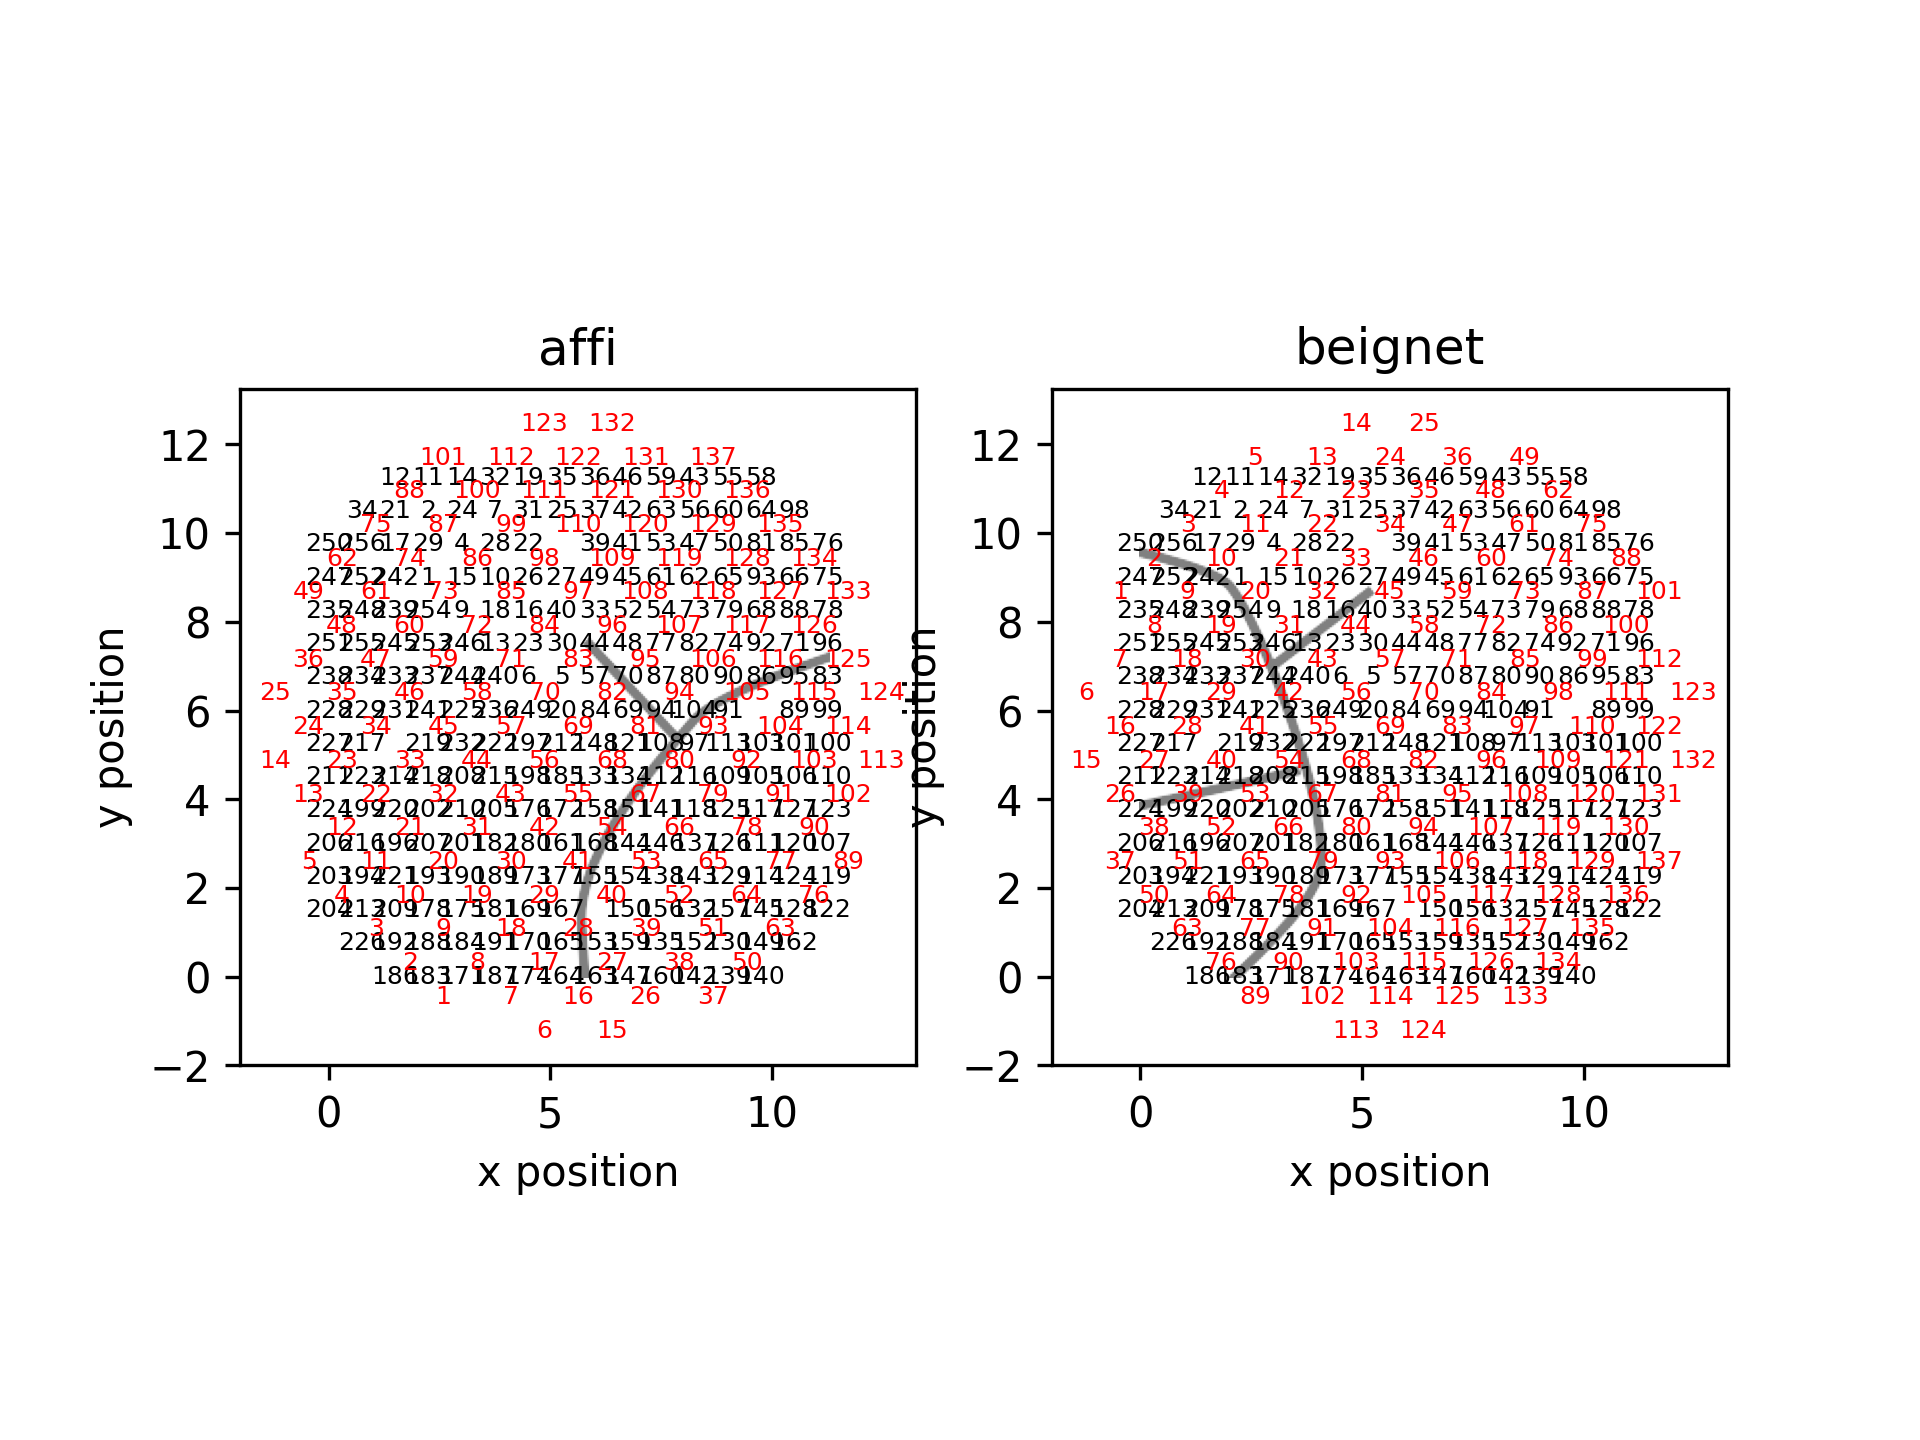
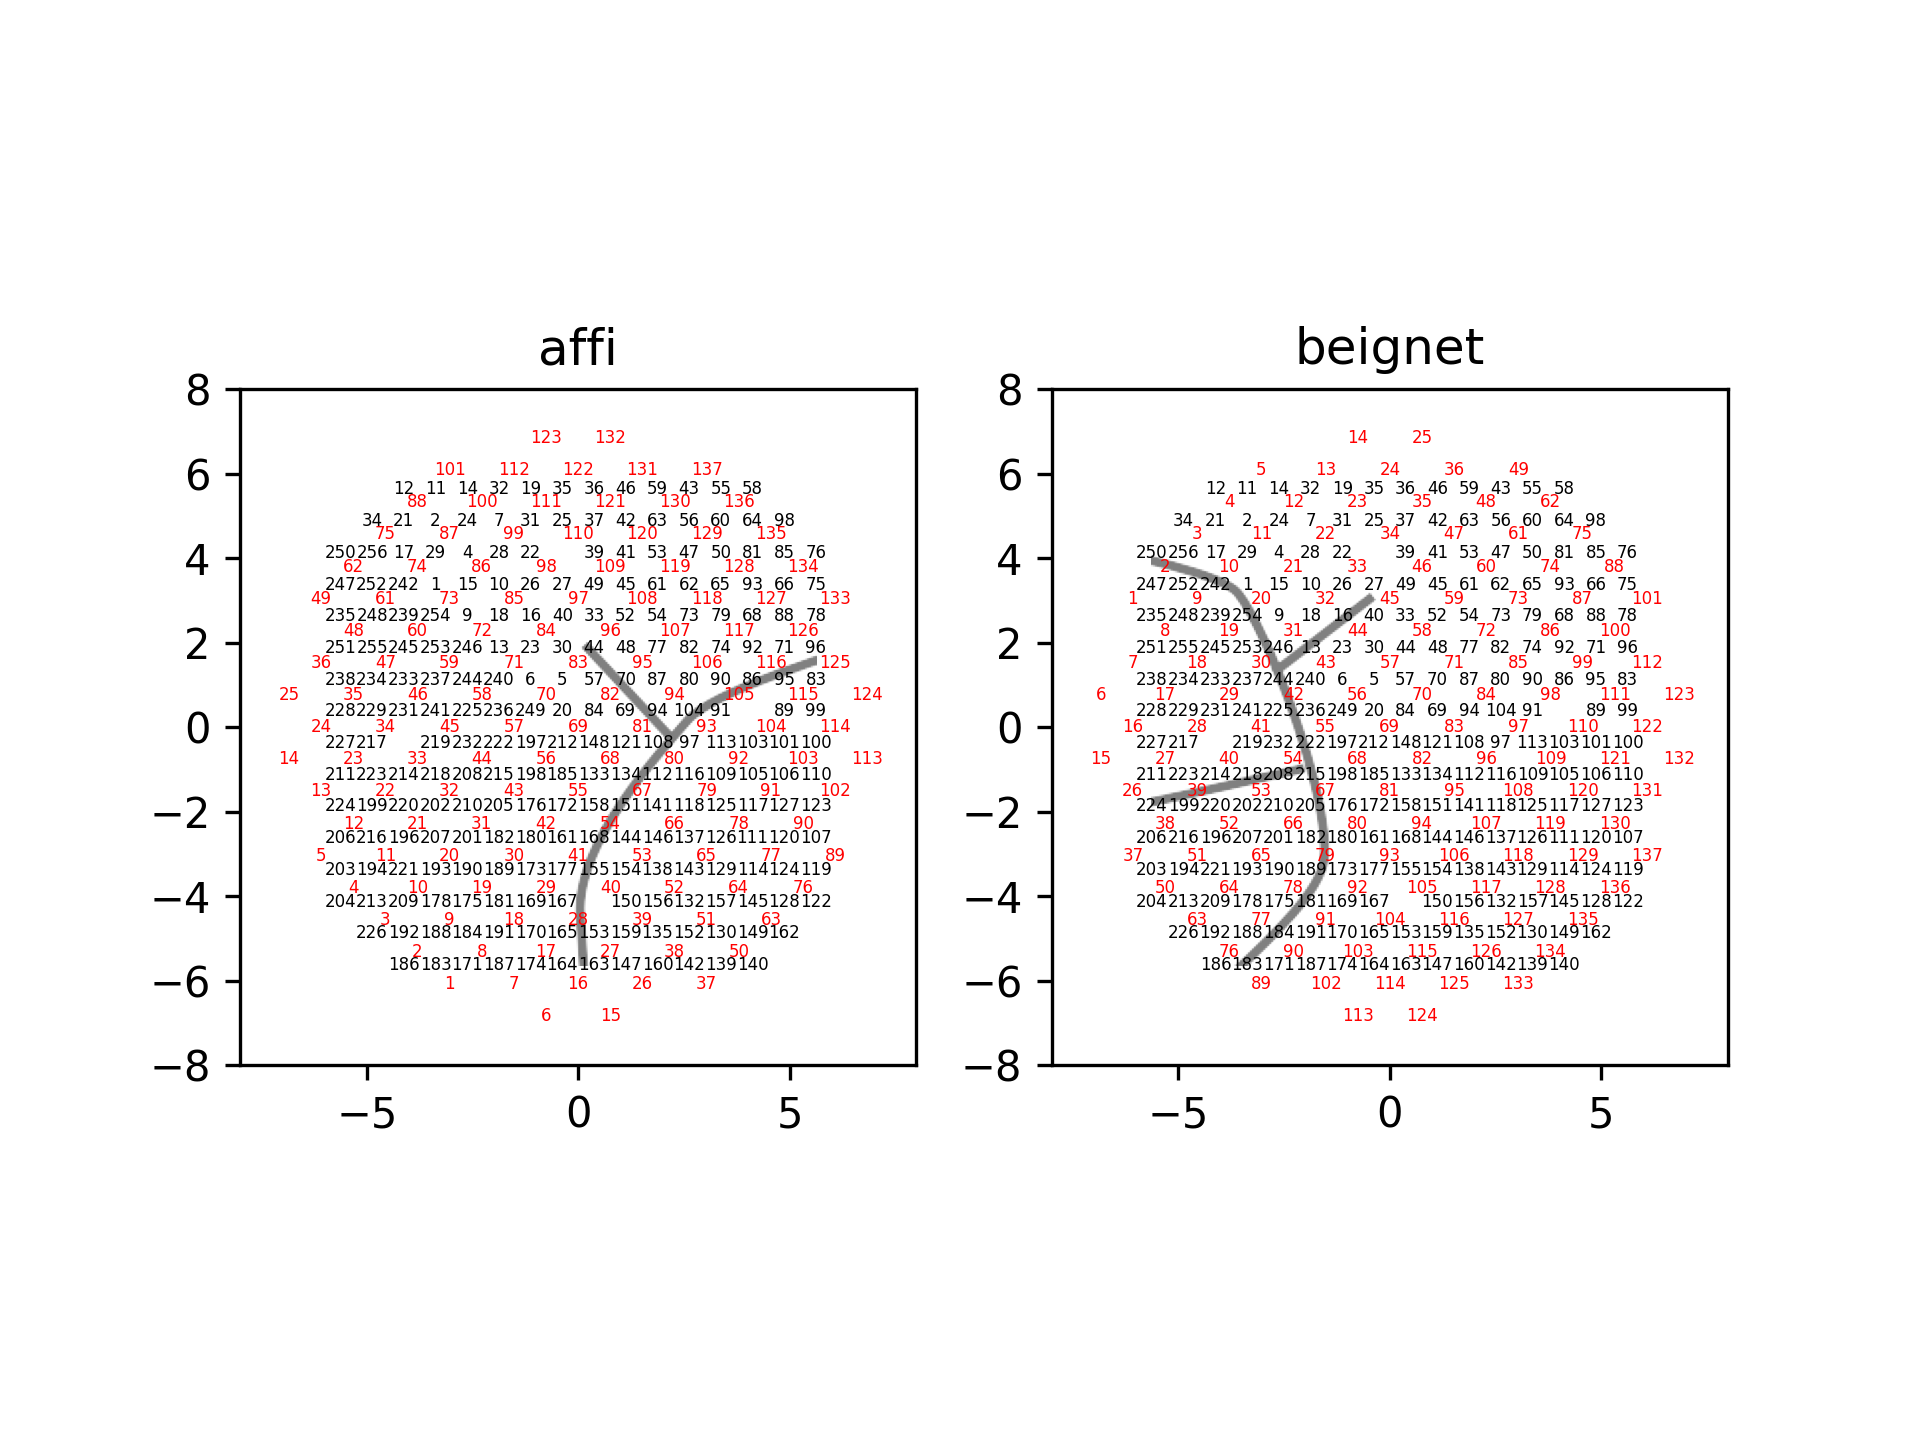
update based on discussion with leo

diff --git a/tests/test_data.py b/tests/test_data.py
@@ -1311,63 +1311,88 @@ class SignalPathTests(unittest.TestCase):
         self.assertEqual(acq_ch_position.shape[1], 2)
 
     def test_align_recording_drives(self):
-        # Create plot for documentation with affi and biegnet
+        # Create plots for documentation with affi and biegnet
         fig, ax = plt.subplots(1,2)
         subjects = ['affi', 'beignet']
         neuropixel_drive='NP_Insert137'
         drive2 = 'ECoG244'
+        drive2_ch_pos, _ , _ = load_chmap(drive_type=drive2)
+        drive2_offset = -(np.max(drive2_ch_pos, axis=0) + np.min(drive2_ch_pos, axis=0))/2 
         for iax, subject in enumerate(subjects):
-            aligned_np_drive_coordinates, recording_sites = align_recoring_drives(neuropixel_drive, drive2, subject)
-            visualization.plot_ECoG244_data_map(np.zeros(256,), cmap='Greys', ax=ax[iax])
-            visualization.base.annotate_spatial_map_channels(drive_type=drive2, color='k', ax=ax[iax])
-            [ax[iax].annotate(str(recording_sites[ipt]), (aligned_np_drive_coordinates[ipt,0], aligned_np_drive_coordinates[ipt,1]), ha='center', va='center', color='r',fontsize=6) for ipt in range(len(recording_sites))]
-            visualization.base.overlay_sulci_on_spatial_map(subject, 'LM1', drive2, theta=0, ax=ax[iax])
-            ax[iax].set(xlim=(-2,13.25), ylim=(-2,13.25), title=f'{subject}')
+            
+            aligned_np_drive_coordinates, drive2_coordinates, recording_sites, acq_elecs = align_recoring_drives(neuropixel_drive, drive2, subject, drive2_offset=drive2_offset)
+            [ax[iax].annotate(str(acq_elecs[ipt]), (drive2_coordinates[ipt,0], drive2_coordinates[ipt,1]), ha='center', va='center', color='k',fontsize=4) for ipt in range(len(acq_elecs))]
+            [ax[iax].annotate(str(recording_sites[ipt]), (aligned_np_drive_coordinates[ipt,0], aligned_np_drive_coordinates[ipt,1]), ha='center', va='center', color='r',fontsize=4) for ipt in range(len(recording_sites))]
+            visualization.base.overlay_sulci_on_spatial_map(subject, 'LM1', drive2, theta=0, offset=-drive2_offset, ax=ax[iax])
+            ax[iax].set(xlim=(-8,8), ylim=(-8,8), title=f'{subject}')
+        visualization.savefig(docs_dir, f'{neuropixel_drive}_{drive2}_alignment.png')
+
+        fig, ax = plt.subplots(1,2)
+        neuropixel_drive='NP_Insert72'
+        for iax, subject in enumerate(subjects):
+            
+            aligned_np_drive_coordinates, drive2_coordinates, recording_sites, acq_elecs = align_recoring_drives(neuropixel_drive, drive2, subject, drive2_offset=drive2_offset)
+            [ax[iax].annotate(str(acq_elecs[ipt]), (drive2_coordinates[ipt,0], drive2_coordinates[ipt,1]), ha='center', va='center', color='k',fontsize=4) for ipt in range(len(acq_elecs))]
+            [ax[iax].annotate(str(recording_sites[ipt]), (aligned_np_drive_coordinates[ipt,0], aligned_np_drive_coordinates[ipt,1]), ha='center', va='center', color='r',fontsize=4) for ipt in range(len(recording_sites))]
+            visualization.base.overlay_sulci_on_spatial_map(subject, 'LM1', drive2, theta=0, offset=-drive2_offset, ax=ax[iax])
+            ax[iax].set(xlim=(-8,8), ylim=(-8,8), title=f'{subject}')
         visualization.savefig(docs_dir, f'{neuropixel_drive}_{drive2}_alignment.png')
 
         # Test the rest of the combinations
         for subject in subjects:
             neuropixel_drive = 'NP_Insert72'
             drive2 = 'ECoG244'
-            acq_ch_position, acq_chs, connected_elecs = load_chmap(drive_type=drive2)
-
-            aligned_np_drive_coordinates, recording_sites = align_recoring_drives(neuropixel_drive, drive2, subject)
+            aligned_np_drive_coordinates, drive2_coordinates ,  recording_sites, acq_elecs = align_recoring_drives(neuropixel_drive, drive2, subject, drive2_offset=drive2_offset)
             fig, ax = plt.subplots(1,1)
-            visualization.plot_ECoG244_data_map(np.zeros(256,), cmap='Greys', ax=ax)
-            visualization.base.annotate_spatial_map_channels(drive_type=drive2, color='k', ax=ax)
-            [ax.annotate(str(recording_sites[ipt]), (aligned_np_drive_coordinates[ipt,0], aligned_np_drive_coordinates[ipt,1]), ha='center', va='center', color='r') for ipt in range(len(recording_sites))]
+            [ax.annotate(str(acq_elecs[ipt]), (drive2_coordinates[ipt,0], drive2_coordinates[ipt,1]), ha='center', va='center', color='k',fontsize=4) for ipt in range(len(acq_elecs))]
+            [ax.annotate(str(recording_sites[ipt]), (aligned_np_drive_coordinates[ipt,0], aligned_np_drive_coordinates[ipt,1]), ha='center', va='center', color='r', fontsize=4) for ipt in range(len(recording_sites))]
+            visualization.base.overlay_sulci_on_spatial_map(subject, 'LM1', drive2, theta=0, offset=-drive2_offset)
+            ax.set(xlim=(-8,8), ylim=(-8,8), title=f'{subject}')
             visualization.savefig(write_dir, f'{neuropixel_drive}_{drive2}_alignment_{subject}.png')
 
             neuropixel_drive='NP_Insert137'
-            aligned_np_drive_coordinates, recording_sites = align_recoring_drives(neuropixel_drive, drive2, subject)
+            aligned_np_drive_coordinates, drive2_coordinates , recording_sites, acq_elecs = align_recoring_drives(neuropixel_drive, drive2, subject, drive2_offset=drive2_offset)
             fig, ax = plt.subplots(1,1)
-            visualization.plot_ECoG244_data_map(np.zeros(256,), cmap='Greys', ax=ax)
-            visualization.base.annotate_spatial_map_channels(drive_type=drive2, color='k', ax=ax)
-            [ax.annotate(str(recording_sites[ipt]), (aligned_np_drive_coordinates[ipt,0], aligned_np_drive_coordinates[ipt,1]), ha='center', va='center', color='r') for ipt in range(len(recording_sites))]
-            visualization.base.overlay_sulci_on_spatial_map(subject, 'LM1', drive2, theta=0)
-            ax.set(xlim=(-2,13.25), ylim=(-2,13.25))
+            [ax.annotate(str(acq_elecs[ipt]), (drive2_coordinates[ipt,0], drive2_coordinates[ipt,1]), ha='center', va='center', color='k',fontsize=4) for ipt in range(len(acq_elecs))]
+            [ax.annotate(str(recording_sites[ipt]), (aligned_np_drive_coordinates[ipt,0], aligned_np_drive_coordinates[ipt,1]), ha='center', va='center', color='r', fontsize=4) for ipt in range(len(recording_sites))]
+            visualization.base.overlay_sulci_on_spatial_map(subject, 'LM1', drive2, theta=0, offset=-drive2_offset)
+            ax.set(xlim=(-8,8), ylim=(-8,8), title=f'{subject}')
             visualization.savefig(write_dir, f'{neuropixel_drive}_{drive2}_alignment_{subject}.png')
 
             ## Test with opto drive
             drive2 = 'Opto32'
             neuropixel_drive = 'NP_Insert72'
-            acq_ch_position, acq_chs, connected_elecs = load_chmap(drive_type=drive2)
-            aligned_np_drive_coordinates, recording_sites = align_recoring_drives(neuropixel_drive, drive2, subject)
+            # acq_ch_position, acq_chs, connected_elecs = load_chmap(drive_type=drive2)
+            aligned_np_drive_coordinates, drive2_coordinates , recording_sites, acq_elecs = align_recoring_drives(neuropixel_drive, drive2, subject, drive2_offset=drive2_offset)
             fig, ax = plt.subplots(1,1)
-            visualization.plot_ECoG244_data_map(np.zeros(256,), cmap='Greys', ax=ax)
-            visualization.base.annotate_spatial_map_channels(drive_type=drive2, color='k', ax=ax)
-            [ax.annotate(str(recording_sites[ipt]), (aligned_np_drive_coordinates[ipt,0], aligned_np_drive_coordinates[ipt,1]), ha='center', va='center', color='r') for ipt in range(len(recording_sites))]
+            [ax.annotate(str(acq_elecs[ipt]), (drive2_coordinates[ipt,0], drive2_coordinates[ipt,1]), ha='center', va='center', color='k',fontsize=5) for ipt in range(len(acq_elecs))]
+            [ax.annotate(str(recording_sites[ipt]), (aligned_np_drive_coordinates[ipt,0], aligned_np_drive_coordinates[ipt,1]), ha='center', va='center', color='r', fontsize=5) for ipt in range(len(recording_sites))]
+            ax.set(xlim=(-8,8), ylim=(-8,8), title=f'{subject}')
+            visualization.base.overlay_sulci_on_spatial_map(subject, 'LM1', 'ECoG244', theta=0, offset=-drive2_offset)
+            ax.set_aspect('equal')
             visualization.savefig(write_dir, f'{neuropixel_drive}_{drive2}_alignment_{subject}.png')
 
             neuropixel_drive='NP_Insert137'
-            aligned_np_drive_coordinates, recording_sites = align_recoring_drives(neuropixel_drive, drive2, subject)
+            aligned_np_drive_coordinates, drive2_coordinates , recording_sites, acq_elecs = align_recoring_drives(neuropixel_drive, drive2, subject, drive2_offset=drive2_offset)
             fig, ax = plt.subplots(1,1)
-            visualization.plot_ECoG244_data_map(np.zeros(256,), cmap='Greys', ax=ax)
-            visualization.base.annotate_spatial_map_channels(drive_type=drive2, color='k', ax=ax)
-            [ax.annotate(str(recording_sites[ipt]), (aligned_np_drive_coordinates[ipt,0], aligned_np_drive_coordinates[ipt,1]), ha='center', va='center', color='r') for ipt in range(len(recording_sites))]
-            visualization.base.overlay_sulci_on_spatial_map(subject, 'LM1', 'ECoG244', theta=0)
-            ax.set(xlim=(-2,13.25), ylim=(-2,13.25))
+            [ax.annotate(str(acq_elecs[ipt]), (drive2_coordinates[ipt,0], drive2_coordinates[ipt,1]), ha='center', va='center', color='k',fontsize=5) for ipt in range(len(acq_elecs))]
+            [ax.annotate(str(recording_sites[ipt]), (aligned_np_drive_coordinates[ipt,0], aligned_np_drive_coordinates[ipt,1]), ha='center', va='center', color='r', fontsize=5) for ipt in range(len(recording_sites))]
+            visualization.base.overlay_sulci_on_spatial_map(subject, 'LM1', 'ECoG244', theta=0, offset=-drive2_offset)
+            ax.set_aspect('equal')
+            ax.set(xlim=(-8,8), ylim=(-8,8), title=f'{subject}')
             visualization.savefig(write_dir, f'{neuropixel_drive}_{drive2}_alignment_{subject}.png')
+        
+        # Test that neuropixel offset works
+        subject='affi'
+        neuropixel_drive = 'NP_Insert72'
+        drive2 = 'ECoG244'
+        aligned_np_drive_coordinates, drive2_coordinates ,  recording_sites, acq_elecs = align_recoring_drives(neuropixel_drive, drive2, subject, neuropixel_drive_offset=-drive2_offset)
+        fig, ax = plt.subplots(1,1)
+        [ax.annotate(str(acq_elecs[ipt]), (drive2_coordinates[ipt,0], drive2_coordinates[ipt,1]), ha='center', va='center', color='k',fontsize=4) for ipt in range(len(acq_elecs))]
+        [ax.annotate(str(recording_sites[ipt]), (aligned_np_drive_coordinates[ipt,0], aligned_np_drive_coordinates[ipt,1]), ha='center', va='center', color='r', fontsize=4) for ipt in range(len(recording_sites))]
+        visualization.base.overlay_sulci_on_spatial_map(subject, 'LM1', drive2, theta=0)
+        ax.set(xlim=(-2.5,13), ylim=(-2.5,13), title=f'{subject}')
+        visualization.savefig(write_dir, f'{neuropixel_drive}_{drive2}_alignment_{subject}_npoffset.png')
 
 
 

diff --git a/aopy/data/base.py b/aopy/data/base.py
@@ -839,7 +839,7 @@ def load_chmap(drive_type='ECoG244', acq_ch_subset=None, theta=0, **kwargs):
     return map_acq2pos(signal_path, layout, acq_ch_subset=acq_ch_subset, theta=theta, 
                        rotation_offset=rotation_offset, **kwargs)
 
-def align_recoring_drives(neuropixel_drive, drive2, subject):
+def align_recoring_drives(neuropixel_drive, drive2, subject, neuropixel_drive_offset=(0,0), drive2_offset=(0,0)):
     '''
     This function aligns one drive to another drive type. In the current iteration, this function only supports aligning neuropixels drives ('NP_Insert72'/'NP_Insert137'') 
     to each other or to 'ECoG244'/'Opto32' drives. This function is not currently compatible with selecting subsets of channels. 
@@ -850,6 +850,8 @@ def align_recoring_drives(neuropixel_drive, drive2, subject):
         neuropixel_drive (str): Neuropixel drive to align. Currently supports 'NP_Insert72', and 'NP_Insert137'
         drive2 (str): Other drive to align. Currently supports 'ECoG244', 'Opto32', 'NP_Insert72', and 'NP_Insert137'
         subject (str): Subject recordings were performed on. Currently supports 'Affi' and 'Beignet'
+        neuropixel_drive_offset (tuple, list, or array): Define how much to translate the neuropixel drive with an X and Y coordinate. 
+        drive2_offset (tuple, list, or array): Define how much to translate the second drive with an X and Y coordinate. 
 
     Returns:
         tuple: Tuple Containing:
@@ -871,13 +873,6 @@ def align_recoring_drives(neuropixel_drive, drive2, subject):
     if subject not in subjects:
         raise ValueError('Subject not supported')
 
-    # Load ch map for drives
-    np_drive_ch_pos, recording_sites , _ = load_chmap(drive_type=neuropixel_drive)
-    if drive2 == 'Opto32': 
-        drive2_ch_pos, _ , _ = load_chmap(drive_type='ECoG244') # For opto drive we still want to center the neuropixel insert relative to ECoG
-    else:
-        drive2_ch_pos, _ , _ = load_chmap(drive_type=drive2)
-    
     # If drive2 is not a neuropixel drive, load alignment angle
     config_files = files('aopy').joinpath('config')
     if drive2 not in NP_drive_list:
@@ -888,16 +883,11 @@ def align_recoring_drives(neuropixel_drive, drive2, subject):
     else:    
         angle = 0
 
-    # Align neuropixel drive to drive2 based on trig - neuropixel insert coordinates are centered by default, but adjust if necessary
-    np_offset = (np.max(np_drive_ch_pos, axis=0) + np.min(np_drive_ch_pos, axis=0))/2 # Find center of drive 2
-    aligned_np_drive_coordinates_x = (np.cos(angle)*(np_drive_ch_pos[:,0] - np_offset[0])) - (np.sin(angle)*(np_drive_ch_pos[:,1] - np_offset[1]))
-    aligned_np_drive_coordinates_y = (np.sin(angle)*(np_drive_ch_pos[:,0] - np_offset[0])) + (np.cos(angle)*(np_drive_ch_pos[:,1] - np_offset[1]))
-    aligned_np_drive_coordinates = np.concatenate((aligned_np_drive_coordinates_x[:,None], aligned_np_drive_coordinates_y[:,None]), axis=1)
+    # Load ch map for neuropixel drive and drive 2
+    np_drive_ch_pos, recording_sites , _ = load_chmap(drive_type=neuropixel_drive, theta=-np.rad2deg(angle))    
+    drive2_ch_pos, acq_elecs , _ = load_chmap(drive_type=drive2)
 
-    # Compute offset to align with drive 2
-    drive2_offset = (np.max(drive2_ch_pos, axis=0) + np.min(drive2_ch_pos, axis=0))/2 # Find center of drive 2
-    
-    return (aligned_np_drive_coordinates + drive2_offset), recording_sites
+    return np_drive_ch_pos + neuropixel_drive_offset, drive2_ch_pos + drive2_offset, recording_sites, acq_elecs
 
 
 def parse_str_list(strings, str_include=None, str_avoid=None):

diff --git a/aopy/visualization/base.py b/aopy/visualization/base.py
@@ -2066,7 +2066,7 @@ def plot_circular_hist(data, bins=16, density=False, offset=0, proportional_area
 
     return n, bins, patches
 
-def overlay_image_on_spatial_map(filepath, drive_type, theta=0, color=None, invert=False, ax=None, **kwargs):
+def overlay_image_on_spatial_map(filepath, drive_type, theta=0, offset=(0,0), color=None, invert=False, ax=None, **kwargs):
     '''
     Overlay an image on a spatial map of electrodes. The image is rotated by theta degrees and 
     placed at the same coordinates as electrode positions for the given electrode drive. The image
@@ -2097,8 +2097,8 @@ def overlay_image_on_spatial_map(filepath, drive_type, theta=0, color=None, inve
     
     # Calculate the proper extents
     elec_pos, _, _ = aodata.load_chmap(drive_type, theta=theta)
-    x = elec_pos[:,0]
-    y = elec_pos[:,1]
+    x = elec_pos[:,0] - offset[0]
+    y = elec_pos[:,1] - offset[1]
     extent = [np.min(x), np.max(x), np.min(y), np.max(y)]
     x_spacing = (extent[1] - extent[0]) / (len(x) - 1)
     y_spacing = (extent[3] - extent[2]) / (len(y) - 1)
